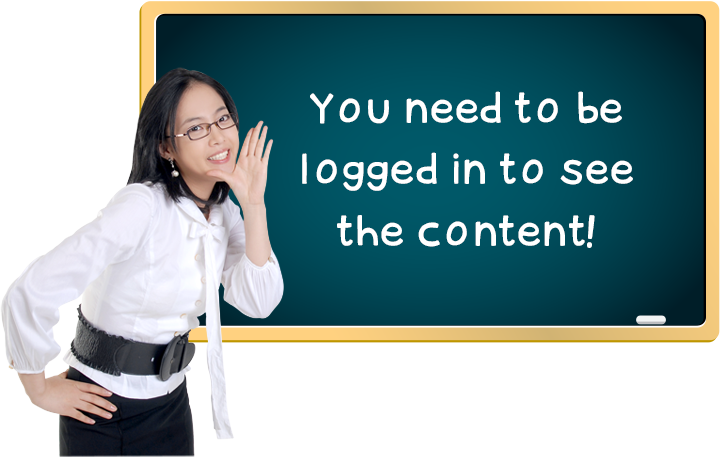
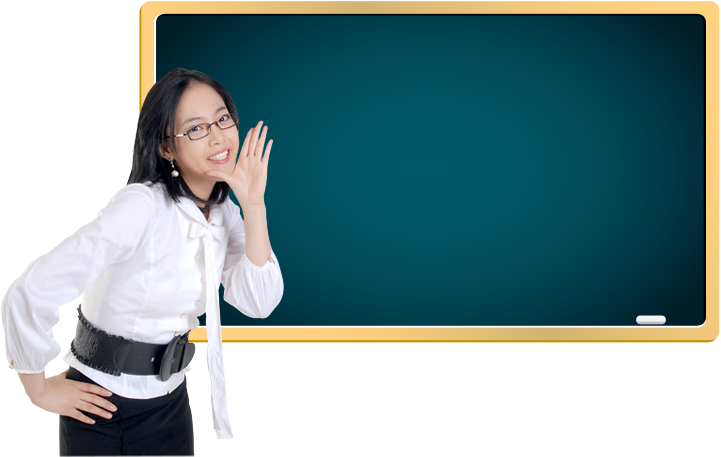
reservation images

Changed region(s): [[0.3967, 0.337, 0.8849, 0.4289], [0.4272, 0.1838, 0.8849, 0.2757], [0.4577, 0.4595, 0.8239, 0.5514]]

diff --git a/css/reservation.css b/css/reservation.css
@@ -9,18 +9,28 @@
 
 .reservation.content-two .btn {
     position: relative;
-    width: 108px;
+    width: 150px;
     padding: 0;
     font-size: 18px;
     font-weight: 800;
     color: #2d2d2d;
 }
 
+.reservation.content-two .btn > a {
+    display: block;
+    padding: 10px 0;
+    text-decoration: none;
+}
+
+.reservation.content-two .btn > span {
+    padding: 10px;
+    display: block;
+}
+
 .reservation.content-two nav.month {
     padding: 10px 20px 0 0;
     margin-bottom: 20px;
     text-align: center;
-
 }
 
 .reservation.content-two nav.month i {
@@ -37,10 +47,6 @@
     border-color: transparent transparent #1abc9c transparent;
 }
 
-.reservation.content-two .prev-month,
-.reservation.content-two .next-month {
-
-}
 
 .reservation.content-two .prev-month {
     float: left;
@@ -168,21 +174,25 @@
     line-height: 35px;
 }
 
-.reservation.content-two nav .fa.fa-th-large,
-.reservation.content-two nav .calendar-view,
-.reservation.content-two nav .list-view {
+.reservation.content-two nav .btm-btn {
     float: left;
     display: inline-block;
     font-size: 20px;
     padding-left: 10px;
-    color: #28cd8d;
+    color: #545454;
+    cursor: pointer;
 }
 .reservation.content-two img.reminder {
     position: absolute;
     width: 70%;
-    top: 33%;
+    top: 30%;
     left: 10%;
     z-index: 100;
+}
+
+.reservation.content-two nav .fa.fa-th-large,
+.reservation.content-two nav .calendar-view{
+    color: #e63349;
 }
 
 /* Pop over*/
@@ -232,7 +242,27 @@ html body div.popover-arrow::after {
 /* dropdown */
 
 nav.month .show-month {
+    position: absolute;
     display: none;
+    width: 165px;
+    background-color: #3f5d7c;
+    z-index: 12345;
+ }
+
+nav.month .show-month a {
+    display: block;
+    color: #efefef;
+    padding: 8px;
+    font-weight: normal;
+    text-decoration: none;
+}
+
+nav.month .prev-month:hover > .show-month {
+    display: block;
+}
+
+nav.month .show-month a:hover {
+    font-weight: bold;
 }
 /* EO dropdown*/
 

diff --git a/part/reservation-header.php b/part/reservation-header.php
@@ -1,5 +1,5 @@
 <?php
-$M = date('M', mktime( 0, 0, 0, $m, 1, $Y));
+$M = $M = date('M', mktime( 0, 0, 0, $m, 1, $Y));
 $pM = date('M', mktime( 0, 0, 0, $m-1, 1, $Y));
 $nM = date('M', mktime( 0, 0, 0, $m+1, 1, $Y));
 $prev_month_digit = date('m', mktime( 0, 0, 0, $m-1, 1, $Y));
@@ -20,7 +20,7 @@ $nY = date('Y', mktime( 0, 0, 0, $m+1, 1, $Y));
                 ?>
                 <div class="display-month">
                 <a href="?m=<?php echo date('m', mktime( 0, 0, 0, $m-$x, 1, $Y));?>&Y=<?php echo date('Y', mktime( 0, 0, 0, $m-$x, 1, $Y));?>">
-                    <?php echo date('M', mktime( 0, 0, 0, $m-$x, 1, $Y));?> <?php echo date('Y', mktime( 0, 0, 0, $m-$x, 1, $Y));?>
+                    <?php echo date('M Y', mktime( 0, 0, 0, $m-$x, 1, $Y));?>
                     <i></i>
                 </a>
                 </div>
@@ -31,8 +31,22 @@ $nY = date('Y', mktime( 0, 0, 0, $m+1, 1, $Y));
     </div>
 
     <div class="this-month btn">
-        <?php echo $M?> <?php echo $Y?>
+        <span><?php echo $M?> <?php echo $Y?></span>
         <i></i>
+        <div class="show-month">
+            <?php
+            for($x = -1; $x < 4; $x++):
+                ?>
+                <div class="display-month">
+                    <a href="?m=<?php echo date('m', mktime( 0, 0, 0, $m, 1, $Y+$x));?>&Y=<?php echo date('Y', mktime( 0, 0, 0, $m, 1, $Y+$x));?>">
+                        <?php echo date('M Y', mktime( 0, 0, 0, $m, 1, $Y+$x));?>
+                        <i></i>
+                    </a>
+                </div>
+                <?php
+            endfor;
+            ?>
+        </div>
     </div>
 
 
@@ -48,7 +62,7 @@ $nY = date('Y', mktime( 0, 0, 0, $m+1, 1, $Y));
                 ?>
                 <div class="display-month">
                     <a href="?m=<?php echo date('m', mktime( 0, 0, 0, $m+$x, 1, $Y));?>&Y=<?php echo date('Y', mktime( 0, 0, 0, $m+$x, 1, $Y));?>">
-                        <?php echo date('M', mktime( 0, 0, 0, $m+$x, 1, $Y));?> <?php echo date('Y', mktime( 0, 0, 0, $m+$x, 1, $Y));?>
+                        <?php echo date('M Y', mktime( 0, 0, 0, $m+$x, 1, $Y));?>
                         <i></i>
                     </a>
                 </div>

diff --git a/part/sitemap-content2.php b/part/sitemap-content2.php
@@ -21,6 +21,10 @@ wp_enqueue_style('sitemap-content2', td() . '/css/sitemap-content2.css');
                     <img src="<?php img_e() ?>sitemap/sitemap-icon-feedback.jpg">
                     <div class="text all"><a href="<?php echo home_url()?>/feedback">Feedback</a></div>
                 </div>
+                <div class="cover">
+                    <img src="<?php img_e() ?>sitemap/sitemap-icon-teamviewer.jpg">
+                    <div class="text all"><a href="<?php echo home_url()?>/team-viewer">Team Viewer</a></div>
+                </div>
             </div>
             <div class="col-sm-4">
                 <div class="cover">
@@ -39,6 +43,10 @@ wp_enqueue_style('sitemap-content2', td() . '/css/sitemap-content2.css');
                     <img src="<?php img_e() ?>sitemap/sitemap-icon-teacherslist.jpg">
                     <div class="text all"><a href="<?php echo home_url()?>/teacher-list">Teachers List</a></div>
                 </div>
+                <div class="cover">
+                    <img src="<?php img_e() ?>sitemap/sitemap-icon-testing.jpg">
+                    <div class="text all"><a href="<?php echo home_url()?>/testing">A/V Testing</a></div>
+                </div>
             </div>
             <div class="col-sm-4">
                 <div class="cover">
@@ -52,6 +60,14 @@ wp_enqueue_style('sitemap-content2', td() . '/css/sitemap-content2.css');
                 <div class="cover">
                     <img src="<?php img_e() ?>sitemap/sitemap-icon-qna.jpg">
                     <div class="text all"><a href="<?php echo home_url()?>/forum/qna">QnA</a></div>
+                </div>
+                <div class="cover">
+                    <img src="<?php img_e() ?>sitemap/sitemap-icon-skype.jpg">
+                    <div class="text all"><a href="<?php echo home_url()?>/skype">Skype</a></div>
+                </div>
+                <div class="cover">
+                    <img src="<?php img_e() ?>sitemap/sitemap-icon-ve.jpg">
+                    <div class="text all"><a href="<?php echo home_url()?>/ve">VE</a></div>
                 </div>
             </div>
         </div>

diff --git a/reservation.php b/reservation.php
@@ -35,16 +35,18 @@ include 'part/reservation-content1.php';
 
 
         <h2><?php _e("Class Reservation", 'x5')?></h2>
-        <?php include 'part/reservation-header.php'?>
+        <?php /*if ( is_user_logged_in() )*/ include 'part/reservation-header.php'?>
 
         <div class="desc">
             <?php echo draw_calendar($m, $Y, $data); ?>
         </div>
 
         <nav>
-            <i class="fa fa-th-large" aria-hidden="true"></i>
-            <div class="calendar-view">CALENDAR VIEW</div>
-            <div class="list-view">LIST VIEW</div>
+            <i class="fa fa-th-large btm-btn" aria-hidden="true"></i>
+            <div class="calendar-view btm-btn">CALENDAR VIEW</div>
+            <div class="divider btm-btn"> | </div>
+            <i class="fa fa-bars btm-btn" aria-hidden="true"></i>
+            <div class="list-view btm-btn">LIST VIEW</div>
         </nav>
     </div>
 </section>
